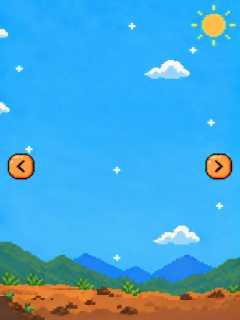
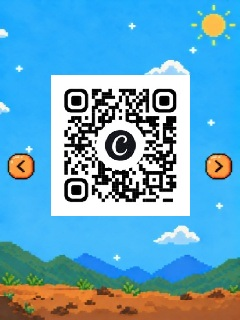
added the github repo and linkedin to the screen

diff --git a/esp32_transmitter/src/decode_image.c b/esp32_transmitter/src/decode_image.c
@@ -101,6 +101,16 @@
     extern const uint8_t leftright_end[]
     asm("_binary_leftright_jpg_end");
 
+    extern const uint8_t linkedin_start[]
+    asm("_binary_linkedin_jpg_start");
+    extern const uint8_t linkedin_end[]
+    asm("_binary_linkedin_jpg_end");
+
+    extern const uint8_t github_start[]
+    asm("_binary_github_jpg_start");
+    extern const uint8_t github_end[]
+    asm("_binary_github_jpg_end");
+
 
 //create array with ptrs to the images
 static const uint8_t *frame_starts[TOTAL_FRAMES] = {
@@ -217,21 +227,32 @@ esp_err_t decode_image(int frame_idx, uint16_t **pixels) {
 
     //jd.inData = frame_starts[frame_idx];
     //jd.inLen = frame_ends[frame_idx] - frame_starts[frame_idx];
-        // In decode_image():
-    if (current_page == PAGE_MENU) {
-        // Menu page: play the 15-frame animation
-        jd.inData = frame_starts[frame_idx];
-        jd.inLen  = frame_ends[frame_idx] - frame_starts[frame_idx];
-    } 
-    else if (current_page == PAGE_YOUTUBE) {
-        // Last page: only has the LEFT arrow to go back
-        jd.inData = left_start;
-        jd.inLen  = left_end - left_start;
-    } 
-    else {
-        // Intermediate pages (LinkedIn, GitHub, Instagram): has BOTH Left and Right arrows
-        jd.inData = leftright_start;
-        jd.inLen  = leftright_end - leftright_start;
+    // Select image source based on current_page:
+    switch (current_page) {
+        case PAGE_MENU:
+            // Menu page: play the 15-frame animation
+            jd.inData = frame_starts[frame_idx];
+            jd.inLen  = frame_ends[frame_idx] - frame_starts[frame_idx];
+            break;
+
+        case PAGE_GITHUB:
+            // Page 1: GitHub Repo page
+            jd.inData = github_start;
+            jd.inLen  = github_end - github_start;
+            break;
+
+        case PAGE_LINKEDIN:
+            // Page 2: LinkedIn QR page
+            jd.inData = linkedin_start;
+            jd.inLen  = linkedin_end - linkedin_start;
+            break;
+
+        case PAGE_LEFTPAGE:
+        default:
+            // Page 3: Left page (left.jpg)
+            jd.inData = left_start;
+            jd.inLen  = left_end - left_start;
+            break;
     }
     jd.inPos = 0;
     jd.outData = pixels;
@@ -258,7 +279,6 @@ esp_err_t decode_image(int frame_idx, uint16_t **pixels) {
     }
 
     free(work);
-    ESP_LOGI(TAG, "JPEG successfully decoded (%d x %d px)!", decoder.width, decoder.height);
     return ESP_OK;
 
 err:

diff --git a/esp32_transmitter/src/lcd.c b/esp32_transmitter/src/lcd.c
@@ -10,6 +10,7 @@
 #include "pretty_effect.h"
 #include "lcd.h"
 #include "decode_image.h"
+#include "transmit_data.h"
 
 //this code is from the esp32 expressif github for this type of display 
 
@@ -507,27 +508,30 @@ static spi_device_handle_t spi;
 
 static void animation_task(void *pvParameters) {
     int current_frame = 0;
+    page_t last_rendered_page = (page_t)-1;
 
     while(1) {
+        if (current_page == PAGE_MENU) {
+            // Main menu: animate 15-frame rover and pulse the hover pill cursor
+            decode_image(current_frame, &pixels);
+            display_pretty_colors(spi);
 
-
-        //decode current image into pixel memory
-        //your current frame then the address of the pixels
-        decode_image(current_frame, &pixels);
-
-        //draw the pixels to the lcd
-        display_pretty_colors(spi);
-
-        //draw the current frame and loop back to 0 when reaching 8
-        //0 index so 0-7 
-        current_frame++;
-        if (current_frame >= TOTAL_FRAMES) {
-            //set the frame to 0
-            current_frame = 0;
+            current_frame++;
+            if (current_frame >= TOTAL_FRAMES) {
+                current_frame = 0;
+            }
+            last_rendered_page = PAGE_MENU;
+            vTaskDelay(pdMS_TO_TICKS(40));
+        } else {
+            // Showcase QR pages (LinkedIn, GitHub, Empty left, etc.)
+            // Decode and redraw only when entering a new page
+            if (current_page != last_rendered_page) {
+                decode_image(0, &pixels);
+                display_pretty_colors(spi);
+                last_rendered_page = current_page;
+            }
+            vTaskDelay(pdMS_TO_TICKS(50));
         }
-
-        //frame delay
-        vTaskDelay(pdMS_TO_TICKS(40));
     }
 }
 void init_lcd_driver(void) {

diff --git a/esp32_transmitter/src/transmit_data.c b/esp32_transmitter/src/transmit_data.c
@@ -73,14 +73,11 @@ void process_arrow_keys(data_packet_t *packet) {
     //you logical and it because if they both have a set bit in the lsb,
     //then its a right button click.
     if (just_pressed & BTN_RIGHT) {
-        if (current_page < page_length) { //we will have 5 pages,
-            //0 index, 
-
-            //PAGE_MENU = 0,
-            //PAGE_LINKEDIN = 1
-            //PAGE_GITHUB = 2
-            //PAGE_INSTAGRAM = 3
-            //PAGE_YOUTUBE = 4
+        if (current_page < page_length) { // 4 pages total (0 to 3)
+            // PAGE_MENU     = 0 (Mode selection + Rover animation)
+            // PAGE_GITHUB   = 1 (GitHub QR)
+            // PAGE_LINKEDIN = 2 (LinkedIn QR)
+            // PAGE_LEFTPAGE = 3 (Left page - left.jpg)
             
             //increase the current page by 1, because we're going to the next page.
             current_page++;

diff --git a/esp32_transmitter/include/transmit_data.h b/esp32_transmitter/include/transmit_data.h
@@ -24,12 +24,14 @@ typedef struct {
 
 typedef enum {
     PAGE_MENU = 0,
-    PAGE_LINKEDIN,
     PAGE_GITHUB,
-    PAGE_INSTAGRAM,
-    PAGE_YOUTUBE,
-    PAGE_MAX_COUNT //TOTAL NUMBER OF PAGES (5)
+    PAGE_LINKEDIN,
+    PAGE_LEFTPAGE,
+    PAGE_MAX_COUNT // TOTAL NUMBER OF PAGES (4)
 } page_t;
+
+#define PAGE_EMPTY     PAGE_LEFTPAGE
+#define PAGE_LEFT      PAGE_LEFTPAGE
 
 
 void init_button_pin(void);
